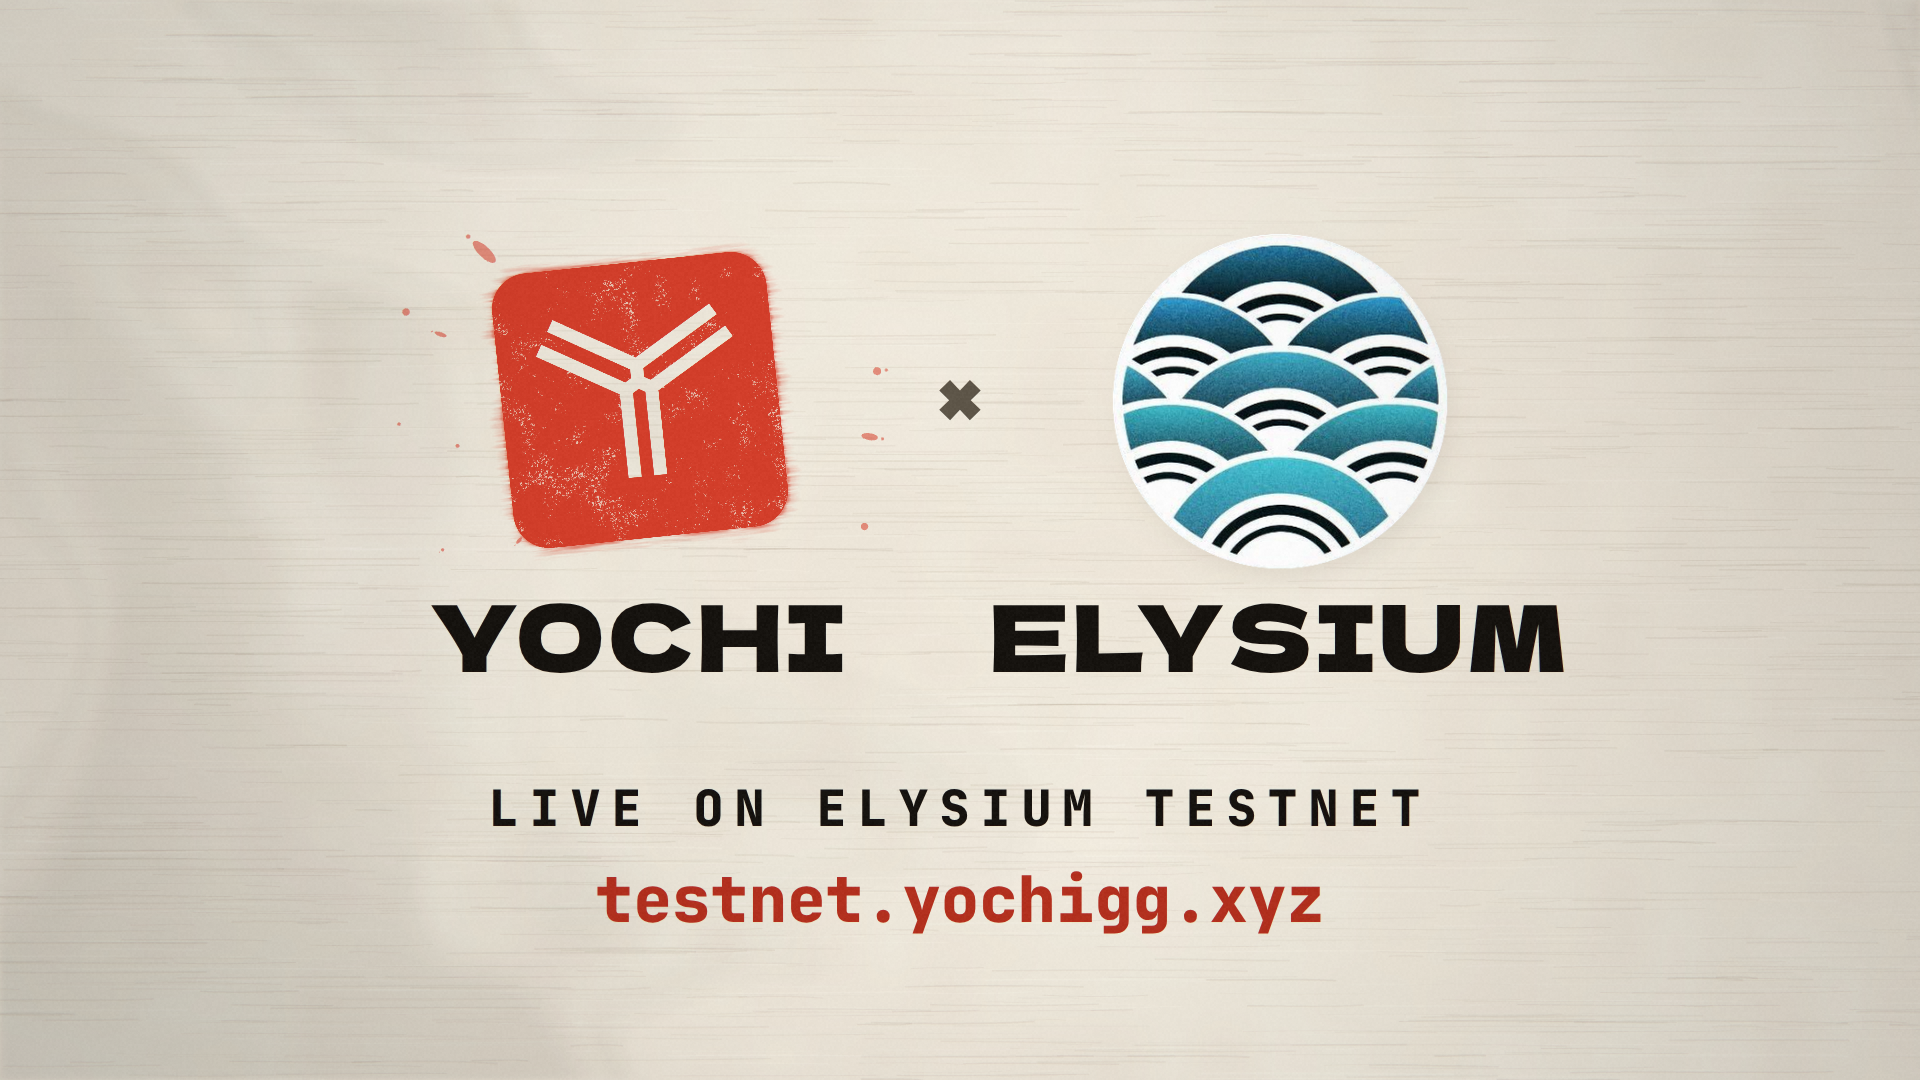
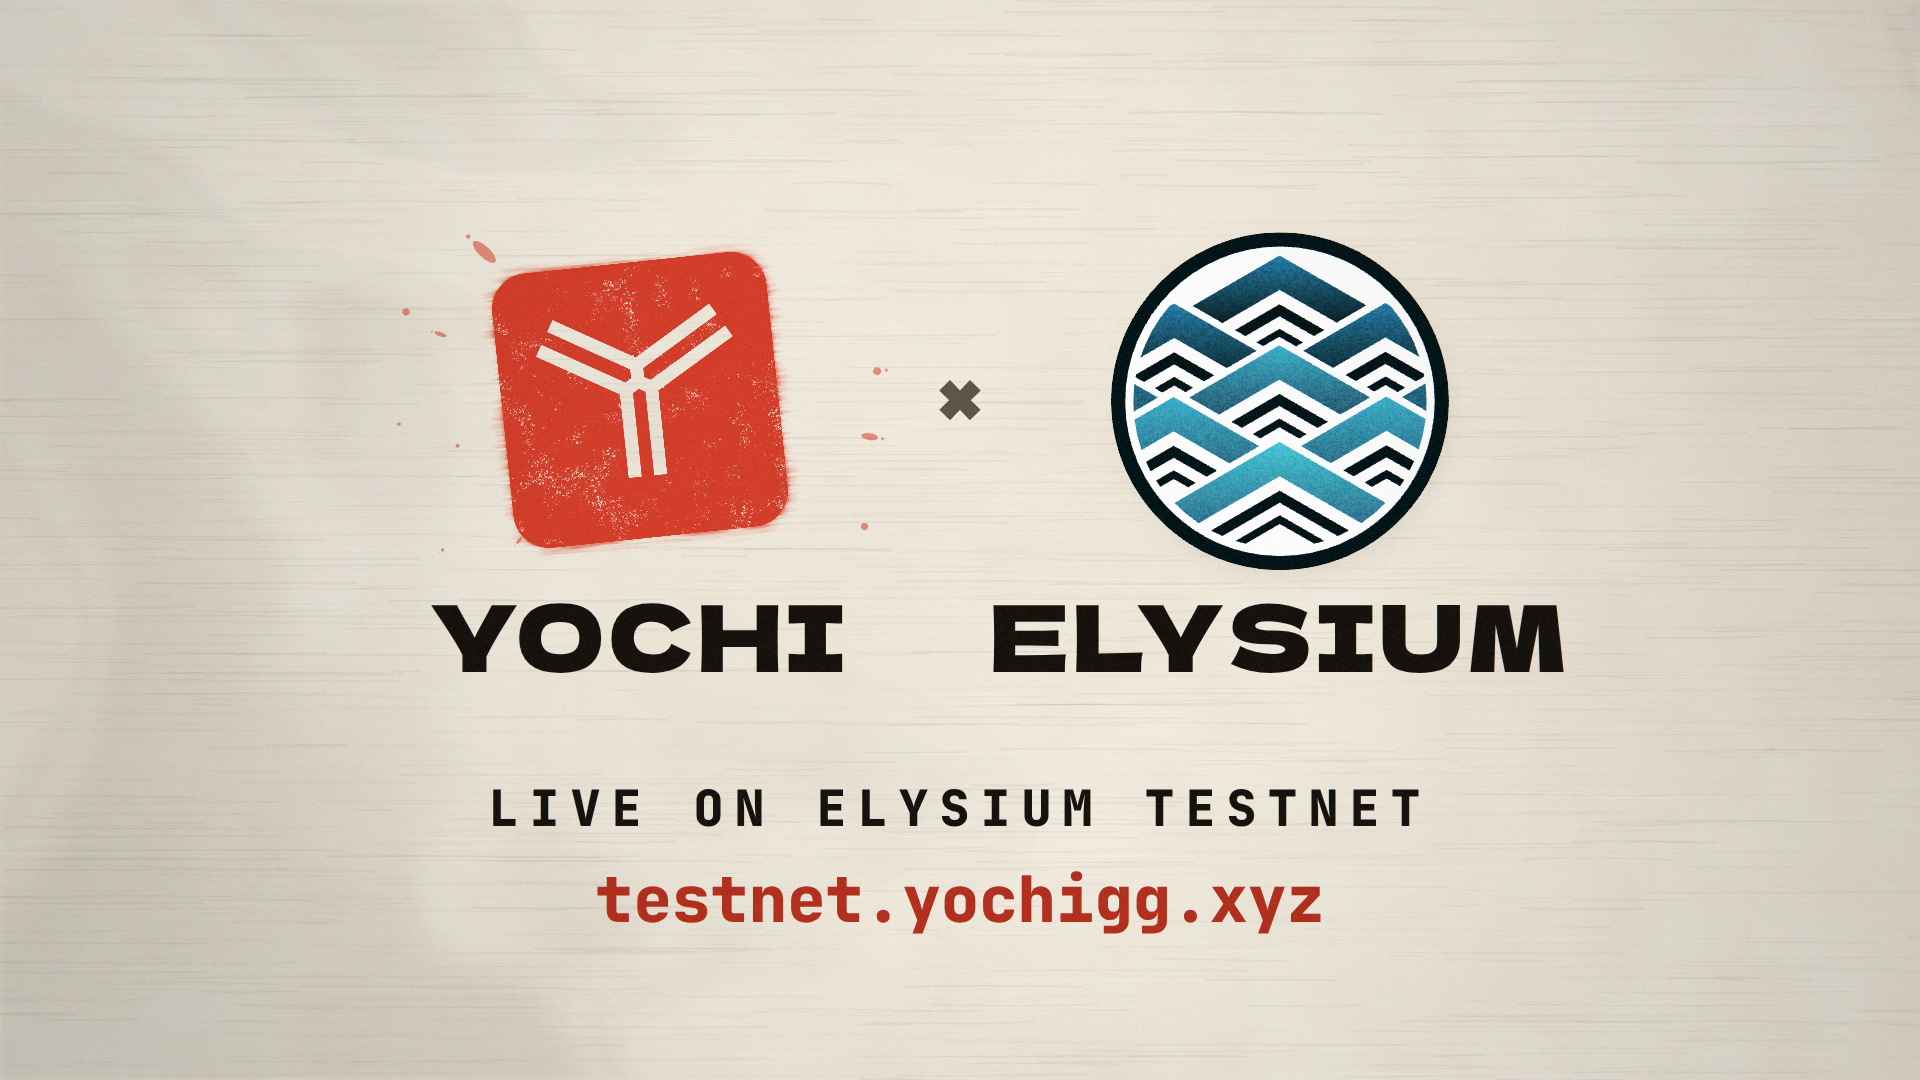
Landscape card: official Elysium logomark (SVG) replaces the unofficial image
Uses elysium-logomark-colorized.svg from asset-pack/Elysium unchanged, same
size and position. Removes the lookalike JPEG, its cutout and the cutout tool.
Re-exported stills; MP4s follow.

Claude-Session: https://claude.ai/code/session_0165shibBPeDuz9bBY7Usx8c

Changed region(s): [[0.5625, 0.2139, 0.7812, 0.55]]

diff --git a/card-elysium-landscape/src/card.js b/card-elysium-landscape/src/card.js
@@ -93,7 +93,7 @@ const A = {};
 const N = 900;
 export async function initCard() {
   A.seal = await loadImage('assets/logo/yochi-seal-paper.svg');
-  A.ely = await loadImage('assets/elysium/elysium-mark.png');
+  A.ely = await loadImage('assets/elysium/elysium-logomark-colorized.svg');
   A.sealTex = sealTexture(A.seal);
   A.bleed = bleedTexture();
 }

diff --git a/card-elysium-landscape/README.md b/card-elysium-landscape/README.md
@@ -39,19 +39,14 @@ Vermilion appears only on the hanko and the URL.
 
 ## The Elysium logo
 
-The source is `assets/elysium/kinetiq-elysium.jpeg`, a 400×400 JPEG copied from `asset-pack/kinetiq-elysium.jpeg`
-on `claude/yochi-flagship`. The mark's own dark arcs are the same colour as its square ground, so a colour key
-would eat the logo. Instead, `tools/elysium_cutout.py` fits the white ring's outer edge (least squares over 720 rays)
-and cuts an anti-aliased circle 0.9 source px inside it, on a 4× Lanczos upsample. Nothing inside the circle is
-changed.
+The official Elysium colourised logomark, `assets/elysium/elysium-logomark-colorized.svg`, copied unchanged from
+the brand assets in `asset-pack/Elysium/`. It's a vector, so it's crisp at any render size, and it's drawn as
+supplied: no recolouring or redrawing. The ELYSIUM name under it is set in the card's display type, matching
+YOCHI. The official wordmark (`elysium-wordmark-dark.svg`) is in the same folder if Elysium would rather see
+their own lettering there.
 
-```sh
-python3 -I tools/elysium_cutout.py assets/elysium/kinetiq-elysium.jpeg assets/elysium/elysium-mark.png
-```
-
-**Resolution:** the crest is drawn at 338 px from a 400 px source, which is fine at 1080p. In the @2x PNG it's
-upscaled about 1.7× and slightly softer than the vector Yochi seal (acceptable, but not crisp). An SVG or a ≥1500 px PNG from Elysium would fix
-it. Drop it in as `assets/elysium/elysium-mark.png` (a transparent circle, cropped to the ring) and re-render.
+(Earlier renders used a 400 px JPEG found online, which turned out to be a lookalike rather than the official
+mark. It and its cutout tool were removed in favour of the official SVG; they're in the git history.)
 
 ## Render
 
